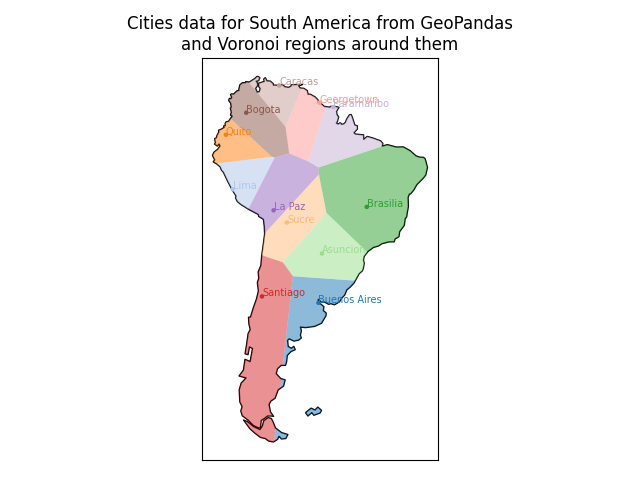
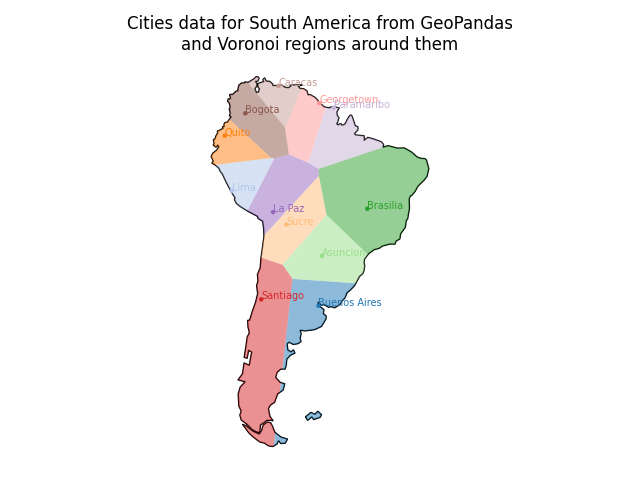
quicker filling of preliminary region polygons

diff --git a/geovoronoi/_voronoi.py b/geovoronoi/_voronoi.py
@@ -291,7 +291,9 @@ def region_polygons_from_voronoi(vor, geom, return_point_assignments=False,
 
     # --- phase 1: preliminary polygons ---
 
-    covered_area = 0  # keeps track of area so far covered by generated Voronoi polygons
+    covered_area = 0            # keeps track of area so far covered by generated Voronoi polygons
+    border_regions = set()      # keeps track of regions that don't have fully finite bounds, i.e. that are at the edge
+    inner_regions = set()       # keeps track of regions that have fully finite bounds, i.e. "inner" regions
     # iterate through regions; `i_reg` is the region ID, `reg_vert` contains vertex indices of this region into
     # `ridge_vert`
     for i_reg, reg_vert in enumerate(vor.regions):
@@ -304,10 +306,13 @@ def region_polygons_from_voronoi(vor, geom, return_point_assignments=False,
 
         # construct the theoretical Polygon `p` of this region
         if np.all(np.array(reg_vert) >= 0):  # fully finite-bounded region
+            inner_regions.add(i_reg)
             p = Polygon(vor.vertices[reg_vert])
         else:
             # this region has a least one infinite bound aka "loose ridge"; we go through each ridge and we will need to
             # calculate a finite end ("far point") for loose ridges
+            border_regions.add(i_reg)
+
             p_vert_indices = set()    # collect unique indices of vertices into `ridge_vert`
             p_vert_farpoints = set()  # collect unique calculated finite far points
 
@@ -396,37 +401,50 @@ def region_polygons_from_voronoi(vor, geom, return_point_assignments=False,
         covered_area += p.area
         region_polys[i_reg] = p
 
-    # --- phase 2: filling preliminary polygons ---
+    # --- phase 2: filling preliminary polygons at the edges ---
 
-    logger.debug('filling preliminary polygons to fully cover the surrounding area')
+    logger.debug('filling %d preliminary polygons to fully cover the surrounding area' % len(border_regions))
 
     # plot_voronoi_polys_with_points_in_area(ax, geom, region_polys, vor.points, region_pts)
     # fig.savefig(plotfile_fmt % 'beforefill')
 
     uncovered_area_portion = (geom.area - covered_area) / geom.area     # initial portion of uncovered area
-    polys_iter = iter(region_polys.items())
+    polys_iter = iter(border_regions)
     # the loop has two passes: in the first pass, only areas are considered that intersect with the preliminary
     # Voronoi region polygon; in the second pass, also areas that don't intersect are considered, i.e. isolated features
     pass_ = 1
     # the loop stops when all area is covered or there are no more preliminary Voronoi region polygons left after both
     # passes
+    inner_regions_poly = None
     while not np.isclose(uncovered_area_portion, 0) and 0 < uncovered_area_portion <= 1:
         try:
-            i_reg, p = next(polys_iter)
+            i_reg = next(polys_iter)
         except StopIteration:
             if pass_ == 1:   # restart w/ second pass
-                polys_iter = iter(region_polys.items())
-                i_reg, p = next(polys_iter)
+                polys_iter = iter(border_regions)
+                i_reg = next(polys_iter)
                 pass_ += 1
             else:     # no more preliminary Voronoi region polygons left after both passes
                 break
         logger.debug('pass %d / region %d: will fill up %f%% uncovered area'
                      % (pass_, i_reg, uncovered_area_portion * 100))
 
-        # generate polygon from all other regions' polygons other then the current region `i_reg`
-        union_other_regions = cascaded_union([other_poly
-                                              for i_other, other_poly in region_polys.items()
-                                              if i_reg != i_other])
+        p = region_polys[i_reg]
+
+        # generate polygon from all inner regions *once* because this stays constant and is re-used in the loop
+        if not inner_regions_poly and inner_regions:
+            if len(inner_regions) == 1:
+                inner_regions_poly = region_polys[next(iter(inner_regions))]
+            else:
+                inner_regions_poly = cascaded_union([region_polys[i_reg] for i_reg in inner_regions])
+
+        # generate polygon from all other regions' polygons other than the current region `i_reg`
+        other_regions_polys = [region_polys[i_other] for i_other in border_regions if i_reg != i_other]
+        if inner_regions_poly:
+            other_regions_polys.append(inner_regions_poly)
+
+        union_other_regions = cascaded_union(other_regions_polys)
+
         # generate difference between geom and other regions' polygons -- what's left is the current region's area
         # plus any so far uncovered area
         try:

diff --git a/geovoronoi/plotting.py b/geovoronoi/plotting.py
@@ -14,13 +14,16 @@ from geopandas import GeoSeries
 from ._voronoi import points_to_coords, points_to_region
 
 
-def subplot_for_map(show_x_axis=False, show_y_axis=False, aspect='equal', **kwargs):
+def subplot_for_map(show_x_axis=False, show_y_axis=False, show_spines=None, aspect='equal', **kwargs):
     """
     Helper function to generate a matplotlib subplot Axes object suitable for plotting geographic data, i.e. axis
     labels are not shown and aspect ratio is set to 'equal' by default.
 
     :param show_x_axis: show x axis labels
     :param show_y_axis: show y axis labels
+    :param show_spines: controls display of frame around plot; if set to None, this is "auto" mode, meaning
+                        that the frame is removed when `show_x_axis` and `show_y_axis` are both set to False;
+                        if set to True/False, the frame is always shown/removed
     :param aspect: aspect ratio
     :param kwargs: additional parameters passed to `plt.subplots()`
     :return: tuple with (matplotlib Figure, matplotlib Axes)
@@ -30,6 +33,12 @@ def subplot_for_map(show_x_axis=False, show_y_axis=False, aspect='equal', **kwar
 
     ax.get_xaxis().set_visible(show_x_axis)
     ax.get_yaxis().set_visible(show_y_axis)
+
+    if show_spines is None:
+        show_spines = show_x_axis or show_y_axis
+
+    for sp in ax.spines.values():
+        sp.set_visible(show_spines)
 
     if show_x_axis:
         fig.autofmt_xdate()
@@ -155,11 +164,11 @@ def plot_points(ax, points, markersize=1, marker='o', color=None, labels=None, l
     :param label_color:  point labels color
     :param label_draw_duplicates: if False, suppress drawing labels on duplicate coordinates
     :param kwargs: additional parameters passed to matplotlib's `scatter` function
-    :return: None
+    :return: return value from `ax.scatter()`
     """
     x, y = xy_from_points(points)
 
-    ax.scatter(x, y, s=markersize, marker=marker, color=color, **kwargs)
+    scat = ax.scatter(x, y, s=markersize, marker=marker, color=color, **kwargs)
 
     if labels:
         # plot labels using matplotlib's text()
@@ -176,6 +185,8 @@ def plot_points(ax, points, markersize=1, marker='o', color=None, labels=None, l
                 ax.text(x_i, y_i, labels[i], fontsize=label_fontsize, color=_color_for_labels(label_color, color, i))
                 drawn_coords.add(pos)
 
+    return scat
+
 
 def plot_line(ax, points, linewidth=1, color=None, **kwargs):
     """
@@ -187,11 +198,11 @@ def plot_line(ax, points, linewidth=1, color=None, **kwargs):
     :param linewidth: line width
     :param color: line color
     :param kwargs: additional parameters passed to matplotlib's `plot` function
-    :return: None
+    :return: return value from `ax.plot()`
     """
     x, y = xy_from_points(points)
 
-    ax.plot(x, y, linewidth=linewidth, color=color, **kwargs)
+    return ax.plot(x, y, linewidth=linewidth, color=color, **kwargs)
 
 
 def plot_polygon(ax, polygon, facecolor=None, edgecolor=None, linewidth=1, linestyle='solid',
@@ -209,14 +220,16 @@ def plot_polygon(ax, polygon, facecolor=None, edgecolor=None, linewidth=1, lines
     :param label_fontsize: label font size
     :param label_color: label color
     :param kwargs: additonal parameters passed to matplotlib `PatchCollection` object
-    :return: None
+    :return: return value from `ax.add_collection()`
     """
-    ax.add_collection(PatchCollection([PolygonPatch(polygon)],
-                                      facecolor=facecolor, edgecolor=edgecolor,
-                                      linewidth=linewidth, linestyle=linestyle,
-                                      **kwargs))
+    coll = ax.add_collection(PatchCollection([PolygonPatch(polygon)],
+                                             facecolor=facecolor, edgecolor=edgecolor,
+                                             linewidth=linewidth, linestyle=linestyle,
+                                             **kwargs))
     if label:
         ax.text(polygon.centroid.x, polygon.centroid.y, label, fontsize=label_fontsize, color=label_color)
+
+    return coll
 
 
 def plot_voronoi_polys_with_points_in_area(ax, area_shape, region_polys, points, region_pts=None,

diff --git a/tests/test_main.py b/tests/test_main.py
@@ -216,7 +216,7 @@ def test_voronoi_italy_with_plot(n_pts, per_geom):
     assert 0 < len(region_polys) <= n_pts
 
     # generate plot
-    fig, ax = subplot_for_map()
+    fig, ax = subplot_for_map(show_spines=True)
     plot_voronoi_polys_with_points_in_area(ax, area_shape, region_polys, coords, region_pts,
                                            point_labels=list(map(str, range(len(coords)))))
 
@@ -279,7 +279,7 @@ def test_voronoi_geopandas_with_plot():
     assert len(region_polys) == len(region_pts) == len(coords)
 
     # generate plot
-    fig, ax = subplot_for_map()
+    fig, ax = subplot_for_map(show_spines=True)
     plot_voronoi_polys_with_points_in_area(ax, south_am_shape, region_polys, coords, region_pts)
 
     return fig
@@ -317,7 +317,7 @@ def test_voronoi_sweden_duplicate_points_with_plot():
                   for i_poly, pt_indices in region_pts.items()}
 
     # generate plot
-    fig, ax = subplot_for_map()
+    fig, ax = subplot_for_map(show_spines=True)
     plot_voronoi_polys_with_points_in_area(ax, area_shape, region_polys, distinct_pt_coords,
                                            plot_voronoi_opts={'alpha': 0.2},
                                            plot_points_opts={'alpha': 0.4},
@@ -363,7 +363,7 @@ def test_issue_7b():
 
     assert all([len(pts_in_region) == 1 for pts_in_region in region_pts.values()])  # no duplicates
 
-    fig, ax = subplot_for_map()
+    fig, ax = subplot_for_map(show_spines=True)
     plot_voronoi_polys_with_points_in_area(ax, polygon, region_polys, centroids, region_pts)
 
     return fig
